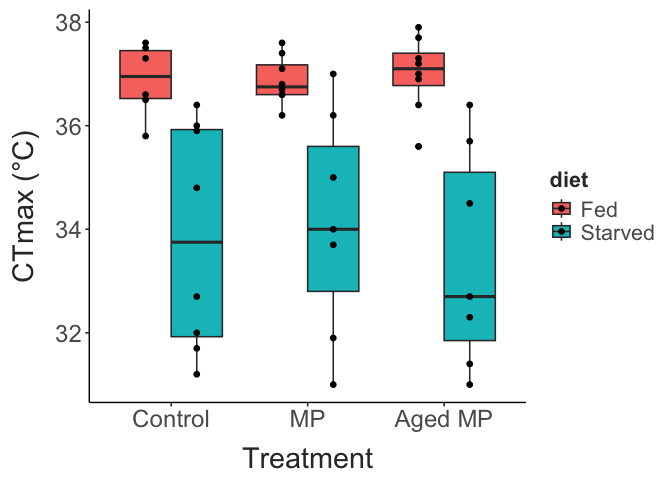
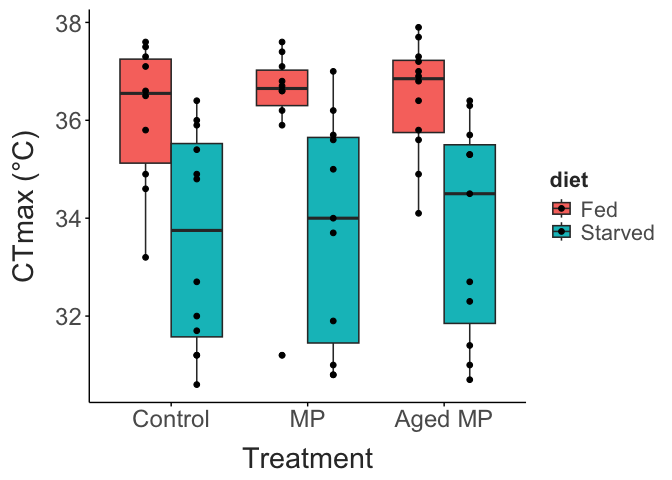
Running report with new data

diff --git a/Output/Reports/report.md b/Output/Reports/report.md
@@ -1,20 +1,22 @@
 TITLE HERE
 ================
-2026-10-09
+2026-10-15
 
 ``` r
 
 surv_data |> 
   mutate(prop_mortality = num_dead /total) |> 
-  ggplot(aes(x = MP_treatment, y = prop_mortality, colour = diet)) + 
-  geom_point(size = 3) + 
+  ggplot(aes(x = MP_treatment, y = prop_mortality, fill = diet)) + 
+  geom_boxplot(position = position_dodge(width = 0.85),
+               outliers = F) + 
+  geom_point(alpha = 0.5, position = position_dodge(width = 0.85)) + 
   labs(x = "Treatment", 
        y = "Mortality (proportion)") + 
-  theme_matt() + 
+  theme_matt_facets() + 
   theme(legend.position = "right")
 ```
 
-<img src="../Figures/unnamed-chunk-1-1.png" alt="" style="display: block; margin: auto;" />
+<img src="../Figures/unnamed-chunk-1-1.png" style="display: block; margin: auto;" />
 
 ``` r
 
@@ -28,22 +30,22 @@ ctmax_data |>
   theme(legend.position = "right")
 ```
 
-<img src="../Figures/unnamed-chunk-2-1.png" alt="" style="display: block; margin: auto;" />
+<img src="../Figures/unnamed-chunk-2-1.png" style="display: block; margin: auto;" />
 
 ``` r
 
 ctmax.model = lmer(data = ctmax_data, 
-                   ctmax_c ~ MP_treatment * diet + (1|file_source))
+                   ctmax_c ~ MP_treatment * diet + (1|experiment_date/file_source))
 
 car::Anova(ctmax.model, type = "III")
 ## Analysis of Deviance Table (Type III Wald chisquare tests)
 ## 
 ## Response: ctmax_c
 ##                       Chisq Df Pr(>Chisq)    
-## (Intercept)       2702.6405  1  < 2.2e-16 ***
-## MP_treatment         0.1157  2     0.9438    
-## diet                15.1660  1  9.846e-05 ***
-## MP_treatment:diet    0.4815  2     0.7861    
+## (Intercept)       2430.1450  1  < 2.2e-16 ***
+## MP_treatment         0.3897  2  0.8229651    
+## diet                12.4603  1  0.0004157 ***
+## MP_treatment:diet    0.0997  2  0.9513910    
 ## ---
 ## Signif. codes:  0 '***' 0.001 '**' 0.01 '*' 0.05 '.' 0.1 ' ' 1
 ```
